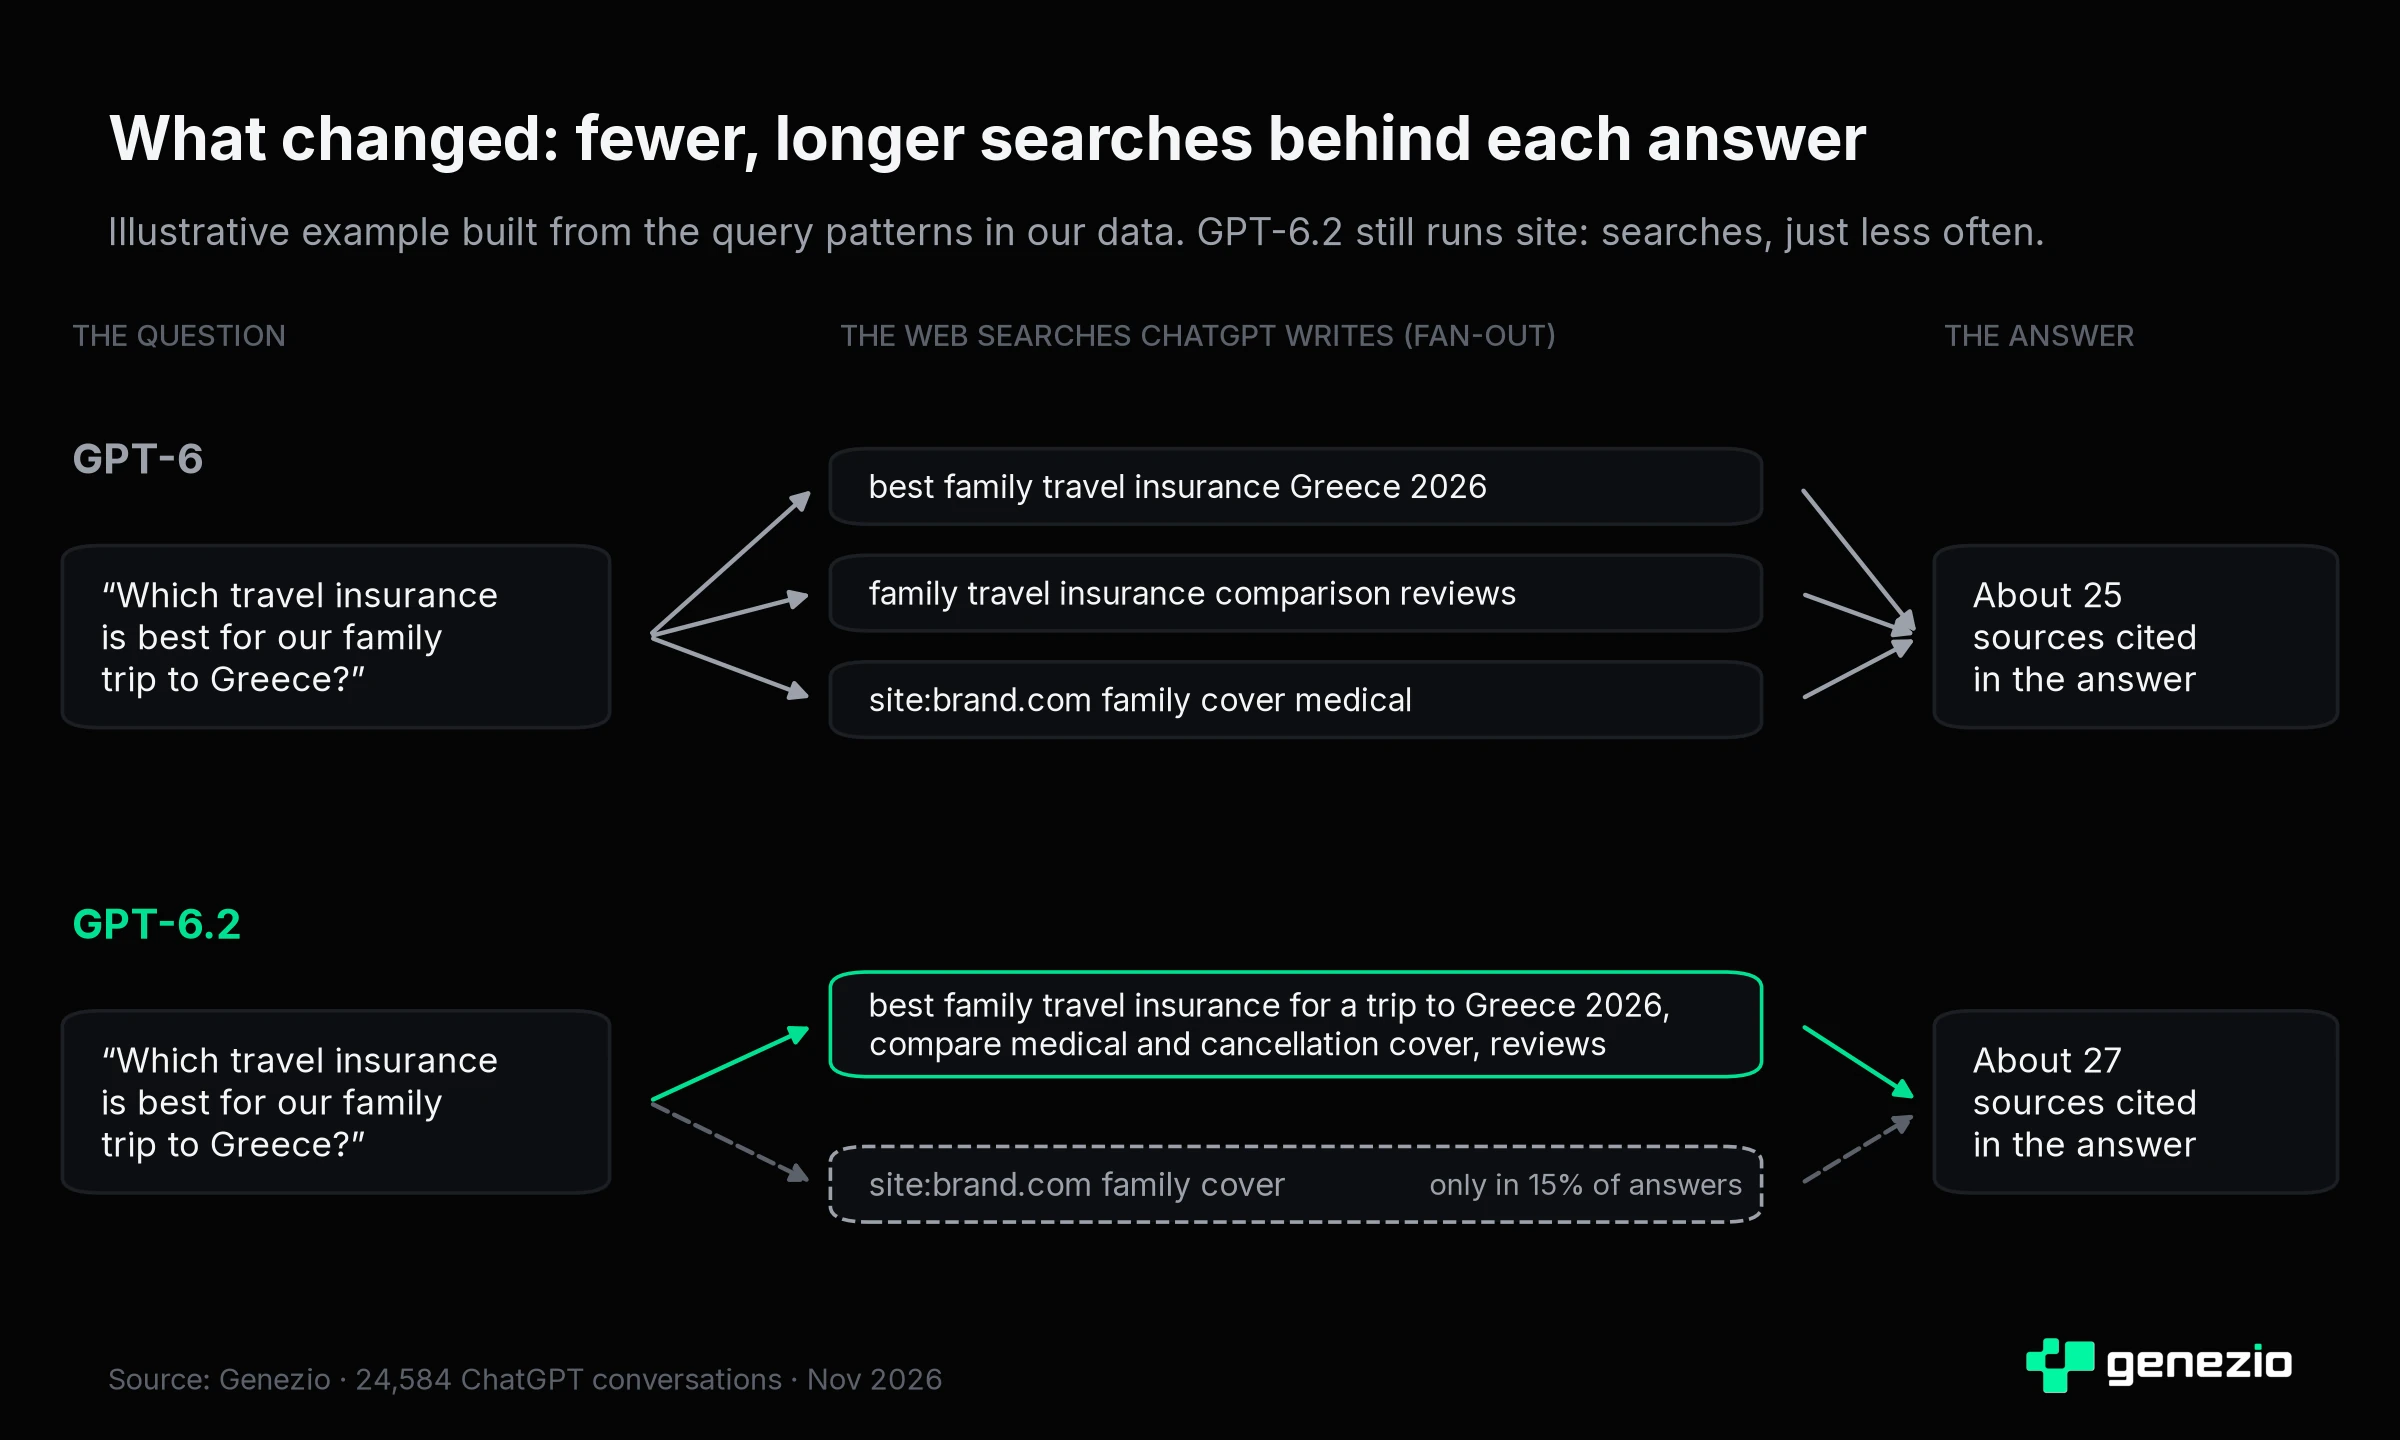
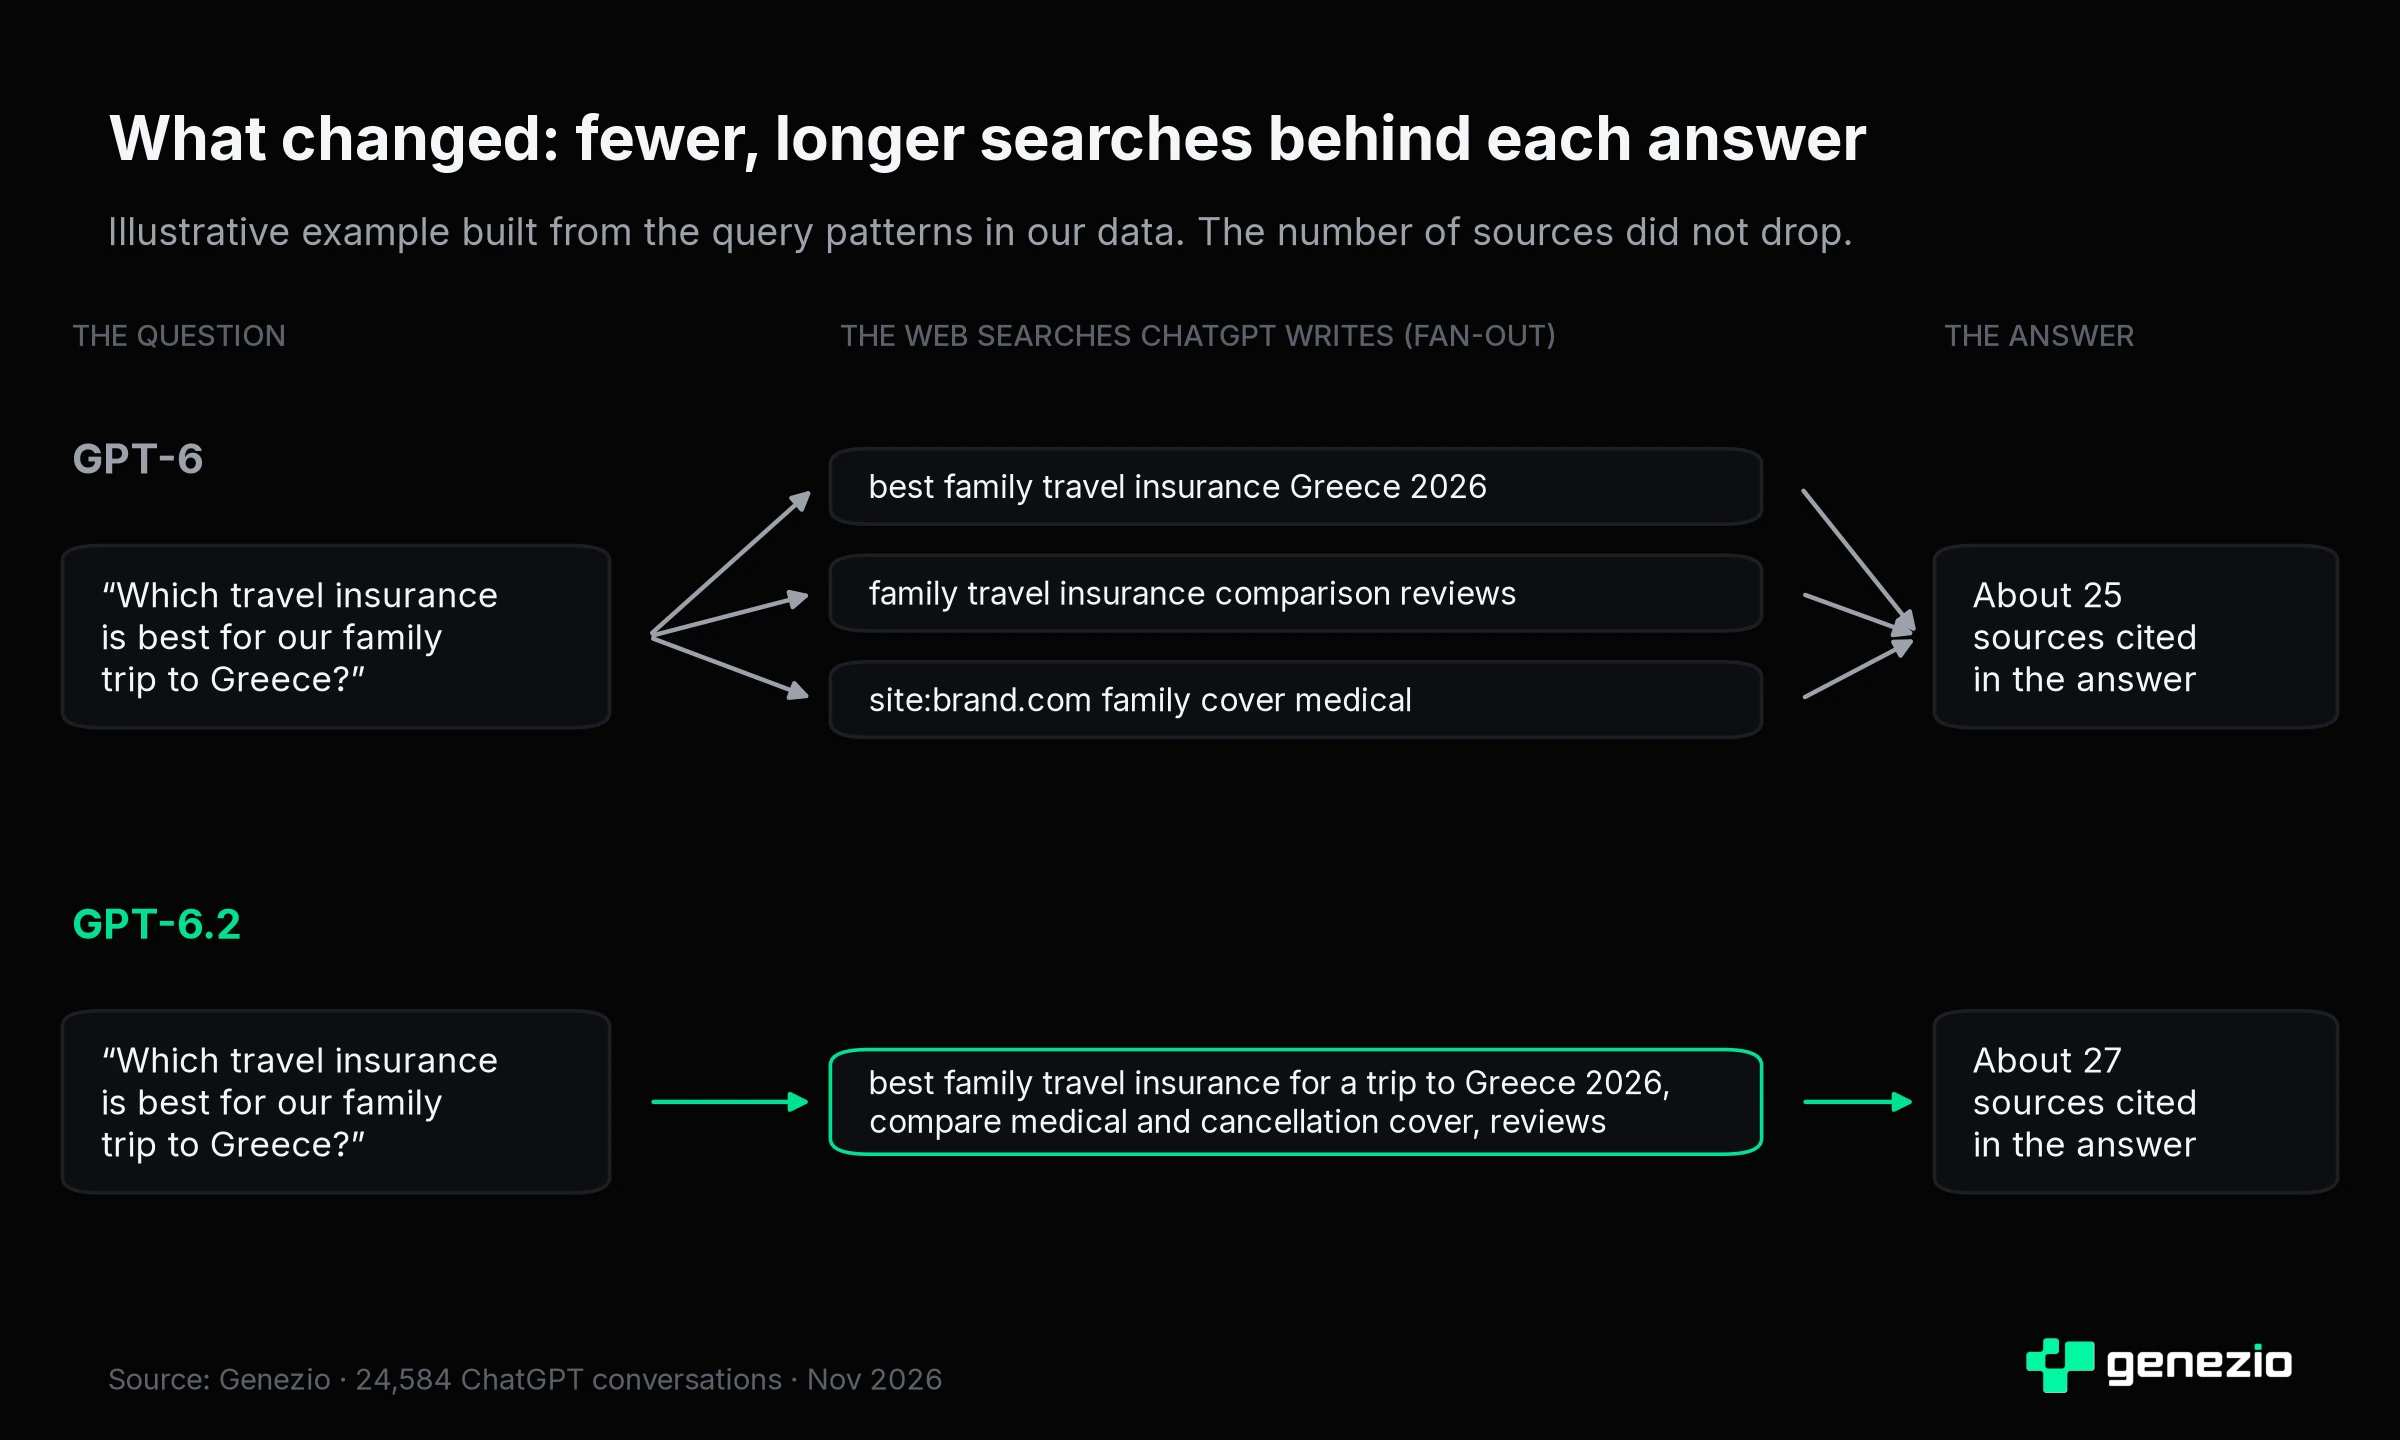
fix(research): no site: search in the GPT-6.2 part of the fan-out chart

Changed region(s): [[0.25, 0.6562, 0.8125, 0.8438], [0.5, 0.1562, 0.8438, 0.1875]]

diff --git a/new-landing/src/posts/gpt-6-2-chatgpt-searches-less.md b/new-landing/src/posts/gpt-6-2-chatgpt-searches-less.md
@@ -48,7 +48,7 @@ When you ask ChatGPT a question that needs fresh information, it does not send y
 
 The fan-out decides which pages ChatGPT can read. A page that no search finds cannot be cited, however good it is. For GEO (Generative Engine Optimization), the fan-out is the front door.
 
-![Illustration: GPT-6 runs three searches for a question, GPT-6.2 runs one longer search and sometimes a site: search, and both answers cite about the same number of sources](/images/gpt-6-2-fanout-explained.webp)
+![Illustration: GPT-6 runs three searches for a question, GPT-6.2 runs one longer search, and both answers cite about the same number of sources](/images/gpt-6-2-fanout-explained.webp)
 
 With GPT-6.2, that front door got narrower.
 
